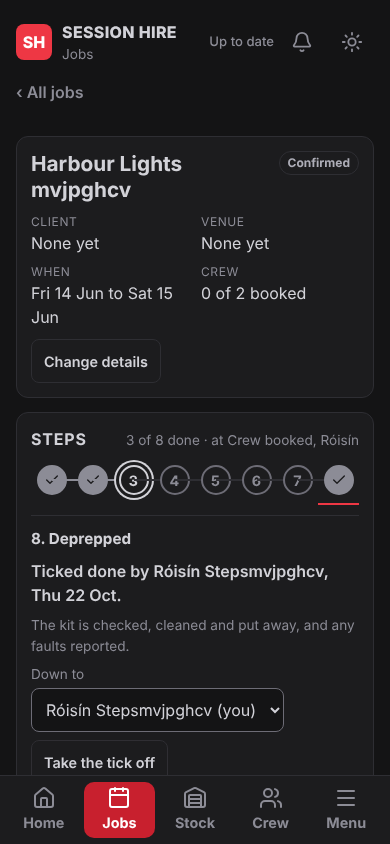
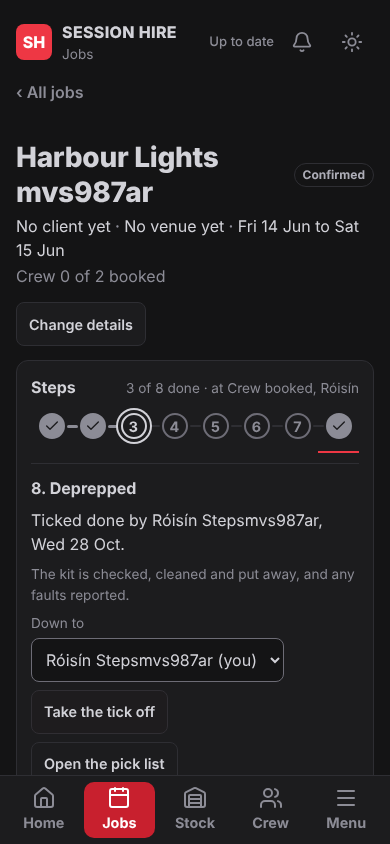
Job steps: the way come drawn up to the step the job is at, rule clear of the dots
The rule between steps ran over the dot after it (each li's ::before
painted over the previous button); it now runs edge to edge behind the
dots. The way already come is 3px in the done tone; the current step's
name is heaviest; smaller dots on a phone so the rule shows. Home's
Your steps say which step of the job each is. Note on ADR 0073.

Claude-Session: https://claude.ai/code/session_018sEnThV3hZyYtJraQ7bqyA

diff --git a/web/src/jobs/steps.css b/web/src/jobs/steps.css
@@ -6,13 +6,15 @@
  */
 .job-steps .steps-head { display: flex; flex-wrap: wrap; align-items: baseline; justify-content: space-between; gap: var(--space-4) var(--space-12); }
 .job-steps .steps-head h2 { margin: 0; }
-.steps-flow { display: grid; grid-template-columns: repeat(8, minmax(0, 1fr)); margin: 0; padding: 0; list-style: none; }
+.steps-flow { --dot: 30px; --gap: 4px; display: grid; grid-template-columns: repeat(8, minmax(0, 1fr)); margin: 0; padding: 0; list-style: none; }
 .steps-flow li { position: relative; min-width: 0; }
-/* The rule joining each dot to the next, behind the dots. */
-.steps-flow li + li::before { content: ''; position: absolute; top: 18px; right: 50%; width: 100%; height: 2px; background: var(--line); }
-.steps-flow li[data-state='done'] + li::before { background: var(--muted); }
+/* The rule joining each dot to the next, behind the dots: it runs from the edge of one dot to the edge of the next, a little clear of
+   each, and never through a number. The part of the way already come is drawn thicker, in the
+   done tone, up to the step the job is at, so how far along the job is reads at a glance. */
+.steps-flow li + li::before { content: ''; position: absolute; z-index: 0; top: calc(var(--space-4) + var(--dot) / 2 - 1px); right: calc(50% + var(--dot) / 2 + var(--gap)); width: calc(100% - var(--dot) - 2 * var(--gap)); height: 2px; border-radius: 2px; background: var(--line); }
+.steps-flow li[data-come] + li::before { top: calc(var(--space-4) + var(--dot) / 2 - 1.5px); height: 3px; background: var(--muted); }
 .app .steps-flow button {
-  position: relative; display: grid; justify-items: center; align-content: start; gap: var(--space-4); width: 100%; min-height: 44px;
+  position: relative; z-index: 1; display: grid; justify-items: center; align-content: start; gap: var(--space-4); width: 100%; min-height: 44px;
   padding: var(--space-4) var(--space-2) var(--space-8); border: 0; border-bottom: 2px solid transparent; border-radius: 0; background: none; color: var(--muted); text-align: center;
 }
 .app .steps-flow button[aria-expanded='true'] { border-bottom-color: var(--accent); color: var(--ink); }
@@ -20,7 +22,7 @@
   .app .steps-flow button:hover { color: var(--ink); }
 }
 .step-dot {
-  display: inline-flex; align-items: center; justify-content: center; width: 30px; height: 30px; border-radius: var(--radius-full);
+  display: inline-flex; align-items: center; justify-content: center; width: var(--dot); height: var(--dot); border-radius: var(--radius-full);
   border: 2px solid var(--field-line); background: var(--panel); color: var(--muted); font-size: var(--text-small); font-weight: 700; font-variant-numeric: tabular-nums;
 }
 .step-dot .icon { width: 16px; height: 16px; }
@@ -29,15 +31,19 @@
 .steps-flow [data-state='now'] .step-dot { border-color: var(--ink); color: var(--ink); box-shadow: 0 0 0 3px var(--panel), 0 0 0 5px var(--ink); }
 .steps-flow[data-stopped] [data-state='now'] .step-dot { box-shadow: none; border-color: var(--field-line); color: var(--muted); }
 .step-label { font-size: var(--text-hint); font-weight: 700; line-height: 1.2; }
-.steps-flow [data-state='now'] .step-label { color: var(--ink); }
+.steps-flow [data-state='now'] .step-label { color: var(--ink); font-weight: 800; }
+.steps-flow [data-state='done'] .step-label { font-weight: 600; }
 .step-owner { max-width: 100%; overflow: hidden; text-overflow: ellipsis; white-space: nowrap; font-size: var(--text-pill); }
 .step-open { display: grid; gap: var(--space-8); justify-items: start; padding-top: var(--space-12); border-top: 1px solid var(--line); }
 .step-open > * { margin: 0; }
-.step-open h3 { font-size: var(--text-subheading); }
-.step-open .step-state { font-weight: 600; }
+/* The step's name first and largest, then how it stands, then what it means: the order a glance reads them in. */
+.step-open h3 { font-size: var(--text-heading); }
+.step-open .step-state { color: var(--ink); }
+.step-open .step-state[data-state='now'] { font-weight: 600; }
 .step-actions { display: flex; flex-wrap: wrap; align-items: flex-end; gap: var(--space-8) var(--space-12); }
 .step-actions .field { min-width: 12rem; }
 /* A phone: the dots alone, closer; the step opened below names itself. */
 @media (max-width: 639px) {
+  .steps-flow { --dot: 26px; --gap: 2px; }
   .steps-flow .step-label, .steps-flow .step-owner { display: none; }
 }

diff --git a/web/src/jobs/Steps.tsx b/web/src/jobs/Steps.tsx
@@ -38,6 +38,8 @@ export function StepsCard({ job, view, onPart }: { job: JobView; view: View; onP
   // A slim strip until a step is opened (ADR 0082), so the job's parts are on the first screen; the hint says where it's at meanwhile.
   const shown = steps.steps.find((s) => s.key === open)
   const at = steps.current
+  // The way already come: every step before the one the job is at, all of them once it's through, none on a stopped job.
+  const reached = at ? steps.steps.indexOf(at) : steps.stopped ? 0 : steps.steps.length
   return (
     <section className="card job-steps" aria-labelledby="job-steps-title">
       <header className="steps-head">
@@ -50,8 +52,8 @@ export function StepsCard({ job, view, onPart }: { job: JobView; view: View; onP
         </p>
       </header>
       <ol className="steps-flow" data-stopped={steps.stopped ? 'true' : undefined}>
-        {steps.steps.map((s) => (
-          <li key={s.key} data-state={s.state} aria-current={s.state === 'now' && !steps.stopped ? 'step' : undefined}>
+        {steps.steps.map((s, i) => (
+          <li key={s.key} data-state={s.state} data-come={i < reached ? 'true' : undefined} aria-current={s.state === 'now' && !steps.stopped ? 'step' : undefined}>
             <button type="button" aria-expanded={s.key === shown?.key} aria-controls="job-step-open" aria-label={stepName(s, steps.stopped !== undefined)} onClick={() => setOpen((was) => (was === s.key ? undefined : s.key))}>
               <span className="step-dot" aria-hidden="true">
                 {s.done ? <Icon name="done" /> : s.number}

diff --git a/shared/src/changelog.ts b/shared/src/changelog.ts
@@ -30,10 +30,10 @@ export const CHANGELOG: readonly Release[] = [
   {
     version: '1.44.1',
     date: '2026-10-28',
-    title: 'A tidier planner',
-    what: 'The Week and Month planner is easier to read. A phase over several days is one bar, as on a wall planner. The days stay along the top and the names down the side however far you scroll, today is marked all the way down, and a whole month fits on a laptop. Days with all their crew found are no longer green, so the days still short of crew stand out. The dates are the page’s title, with moving week to week and Jobs or People together under it.',
+    title: 'A tidier planner, and clearer job steps',
+    what: 'The Week and Month planner is easier to read. A phase over several days is one bar, as on a wall planner. The days stay along the top and the names down the side however far you scroll, today is marked all the way down, and a whole month fits on a laptop. Days with all their crew found are no longer green, so the days still short of crew stand out. The dates are the page’s title, with moving week to week and Jobs or People together under it. On a job’s page, the line of steps shows how far the job has come: the way already come is drawn thicker up to the step it’s at, and the line no longer runs through the numbers. Your steps on Home say which step of the job each one is.',
     prs: [145],
-    adrs: [10],
+    adrs: [10, 73],
   },
   {
     version: '1.44.0',

diff --git a/web/src/home/HomeScreen.tsx b/web/src/home/HomeScreen.tsx
@@ -616,6 +616,8 @@ function MySteps({ view, me, all }: { view: View; me: PersonView; all: boolean }
                   <b>{step.label}</b>
                   <p>
                     {job.name}
+                    {/* Where the step sits in the job's way, so the list says how far along each job is (ADR 0073). */}
+                    {` · step ${step.number} of ${view.steps.of(job.id)?.steps.length ?? 8}`}
                     {step.hint && ` · ${step.hint}`}
                   </p>
                 </div>

diff --git a/docs/adr/0073-a-jobs-steps-and-who-has-each.md b/docs/adr/0073-a-jobs-steps-and-who-has-each.md
@@ -84,3 +84,14 @@ are only known to the person doing them (the kit list settled, the deprep).
 - Not done, for later if wanted: steps per company (adding or renaming
   them), due dates on steps, and a list of every step by owner for the
   office.
+
+## Tidied, 28 October 2026
+
+At Colly's ask (the "steps" visual showing the whole job and the step it's
+at): the rule between steps now runs from dot to dot and never through a
+number; the way already come, up to the step the job is at, is drawn
+thicker in the done tone, so how far along a job is reads at a glance (none
+on a stopped job); the step it's at has its name in the heaviest weight; on
+a phone the dots are a little smaller so the rule between them still shows.
+The step opened below puts its name first and largest. Your steps on Home
+say "step 3 of 8" beside the job's name.
